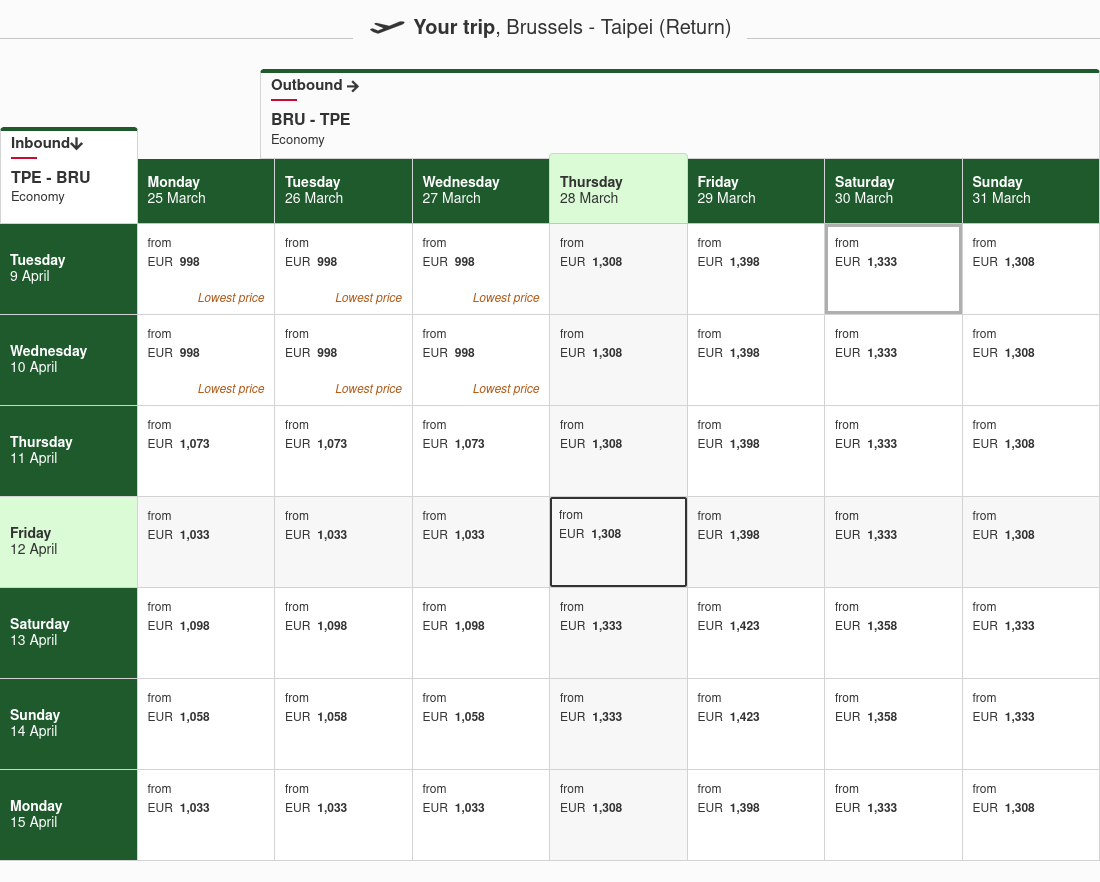
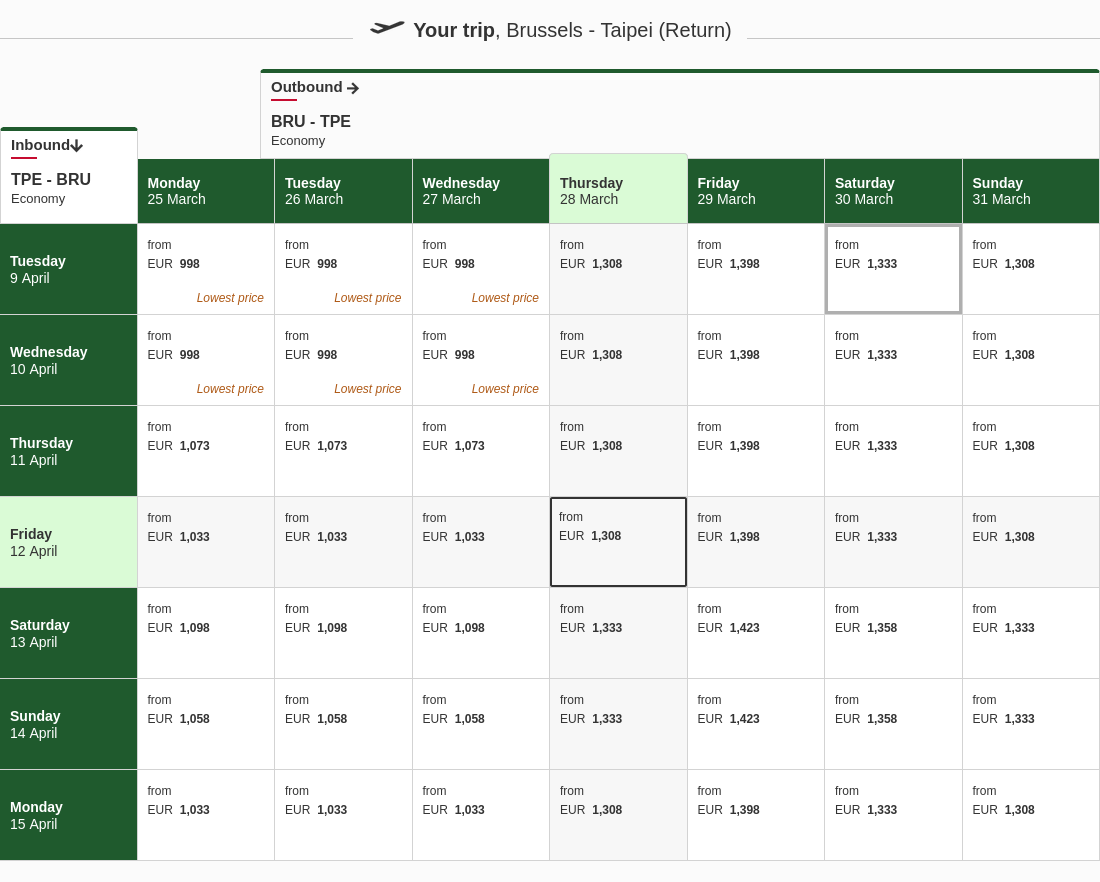
Latest scraping taiwan: Mon Jul  3 22:41:09 UTC 2023

diff --git a/scrapes/taiwan/turkish-airlines.md b/scrapes/taiwan/turkish-airlines.md
@@ -2,13 +2,13 @@
 | --- | --- |     |     |     |     |     |     | --- | --- | --- | --- | --- | --- |
 | Previous | Return<br><br>09 Tuesday April 2024 | Return<br><br>10 Wednesday April 2024 | Return<br><br>11 Thursday April 2024 | Return<br><br>12 Friday April 2024 | Return<br><br>13 Saturday April 2024 | Return<br><br>14 Sunday April 2024 | Return<br><br>15 Monday April 2024 |
 | --- | --- | --- | --- | --- | --- | --- | --- |
-| Departure<br><br>25 Monday March 2024 | 1.113,85 | 1.255,85 | 1.255,85 | 1.255,85 | 1.255,85 | 1.255,85 | 1.113,85 |
-| Departure<br><br>26 Tuesday March 2024 | 1.089,19 | 1.231,19 | 1.231,19 | 1.231,19 | 1.231,19 | 1.231,19 | 1.089,19 |
-| Departure<br><br>27 Wednesday March 2024 | 1.169,19 | 1.312,19 | 1.312,19 | 1.312,19 | 1.312,19 | 1.312,19 | 1.169,19 |
-| Departure<br><br>28 Thursday March 2024 | 1.280,19 | 1.423,19 | 1.423,19 | 1.423,19 | 1.423,19 | 1.423,19 | 1.280,19 |
-| Departure<br><br>29 Friday March 2024 | 1.280,19 | 1.423,19 | 1.423,19 | 1.423,19 | 1.423,19 | 1.423,19 | 1.280,19 |
-| Departure<br><br>30 Saturday March 2024 | 1.089,19 | 1.231,19 | 1.231,19 | 1.231,19 | 1.231,19 | 1.231,19 | 1.089,19 |
-| Departure<br><br>31 Sunday March 2024 | 1.270,19 | 1.413,19 | 1.413,19 | 1.413,19 | 1.413,19 | 1.413,19 | 1.270,19 |
+| Departure<br><br>25 Monday March 2024 | 1.113,76 | 1.255,76 | 1.255,76 | 1.255,76 | 1.255,76 | 1.255,76 | 1.113,76 |
+| Departure<br><br>26 Tuesday March 2024 | 1.089,13 | 1.231,13 | 1.231,13 | 1.231,13 | 1.231,13 | 1.231,13 | 1.089,13 |
+| Departure<br><br>27 Wednesday March 2024 | 1.169,13 | 1.312,13 | 1.312,13 | 1.312,13 | 1.312,13 | 1.312,13 | 1.169,13 |
+| Departure<br><br>28 Thursday March 2024 | 1.280,13 | 1.423,13 | 1.423,13 | 1.423,13 | 1.423,13 | 1.423,13 | 1.280,13 |
+| Departure<br><br>29 Friday March 2024 | 1.280,13 | 1.423,13 | 1.423,13 | 1.423,13 | 1.423,13 | 1.423,13 | 1.280,13 |
+| Departure<br><br>30 Saturday March 2024 | 1.089,13 | 1.231,13 | 1.231,13 | 1.231,13 | 1.231,13 | 1.231,13 | 1.089,13 |
+| Departure<br><br>31 Sunday March 2024 | 1.270,13 | 1.413,13 | 1.413,13 | 1.413,13 | 1.413,13 | 1.413,13 | 1.270,13 |
 | Next |
 | Lowest fare — No flight or seat availability |     |     |     |     |     |     |     |
 
